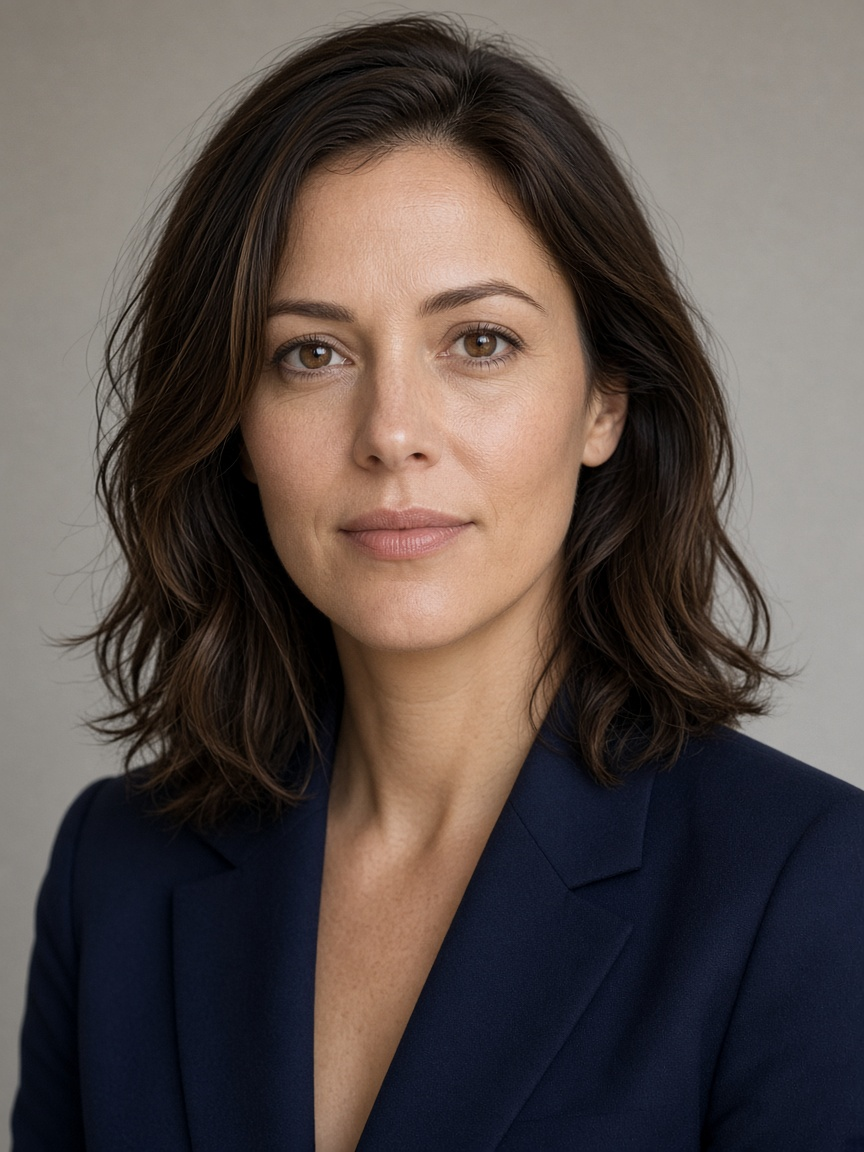
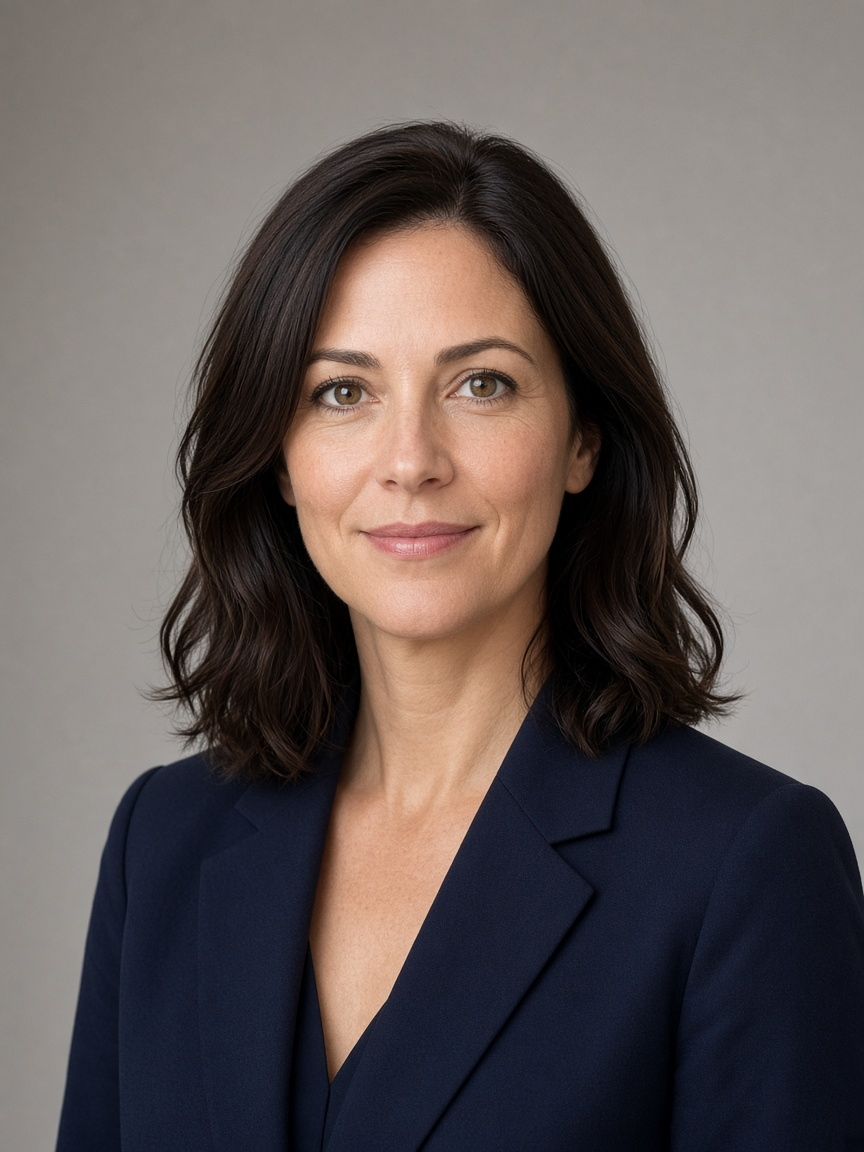
Replace specialist portraits so the full face stays in frame.

diff --git a/index.html b/index.html
@@ -7,7 +7,7 @@
   <meta name="description" content="Демо-лендинг ниши «Финансовые услуги»: заявка на консультацию по кредиту, рефинансированию и страхованию. Это не банк и не оферта.">
   <meta name="robots" content="noindex, follow">
   <link rel="canonical" href="https://damn-sky.github.io/finance-landing/">
-  <link rel="stylesheet" href="styles.css?v=4">
+  <link rel="stylesheet" href="styles.css?v=5">
 </head>
 <body>
   <header class="header">
@@ -57,19 +57,19 @@
       <p class="section-lead">Демо-портреты для макета. Это не сотрудники банка и не реальные консультанты.</p>
       <div class="grid grid-3">
         <article class="card person">
-          <img src="img/spec-1.jpg" width="600" height="800" alt="Марина Ковалева" loading="lazy">
+          <img src="img/spec-1.jpg?v=2" width="600" height="800" alt="Марина Ковалева" loading="lazy">
           <h3>Марина Ковалева</h3>
           <p class="tenure">8 лет</p>
           <p>Ипотека и рефинансирование. Сверяет платёж с бюджетом, а не только со ставкой.</p>
         </article>
         <article class="card person">
-          <img src="img/spec-2.jpg" width="600" height="800" alt="Андрей Левин" loading="lazy">
+          <img src="img/spec-2.jpg?v=2" width="600" height="800" alt="Андрей Левин" loading="lazy">
           <h3>Андрей Левин</h3>
           <p class="tenure">11 лет</p>
           <p>Потребительские кредиты. Смотрит уже открытые договоры, чтобы не собрать второй платёж поверх первого.</p>
         </article>
         <article class="card person">
-          <img src="img/spec-3.jpg" width="600" height="800" alt="Ольга Сергеева" loading="lazy">
+          <img src="img/spec-3.jpg?v=2" width="600" height="800" alt="Ольга Сергеева" loading="lazy">
           <h3>Ольга Сергеева</h3>
           <p class="tenure">6 лет</p>
           <p>Страхование к сделке. Отделяет то, что требует банк, от того, что можно сравнить отдельно.</p>

diff --git a/styles.css b/styles.css
@@ -88,7 +88,7 @@ section { padding-top: 40px; }
   aspect-ratio: 3 / 4;
   height: auto;
   object-fit: cover;
-  object-position: center 18%;
+  object-position: center 30%;
   border-radius: 14px;
   display: block;
 }
